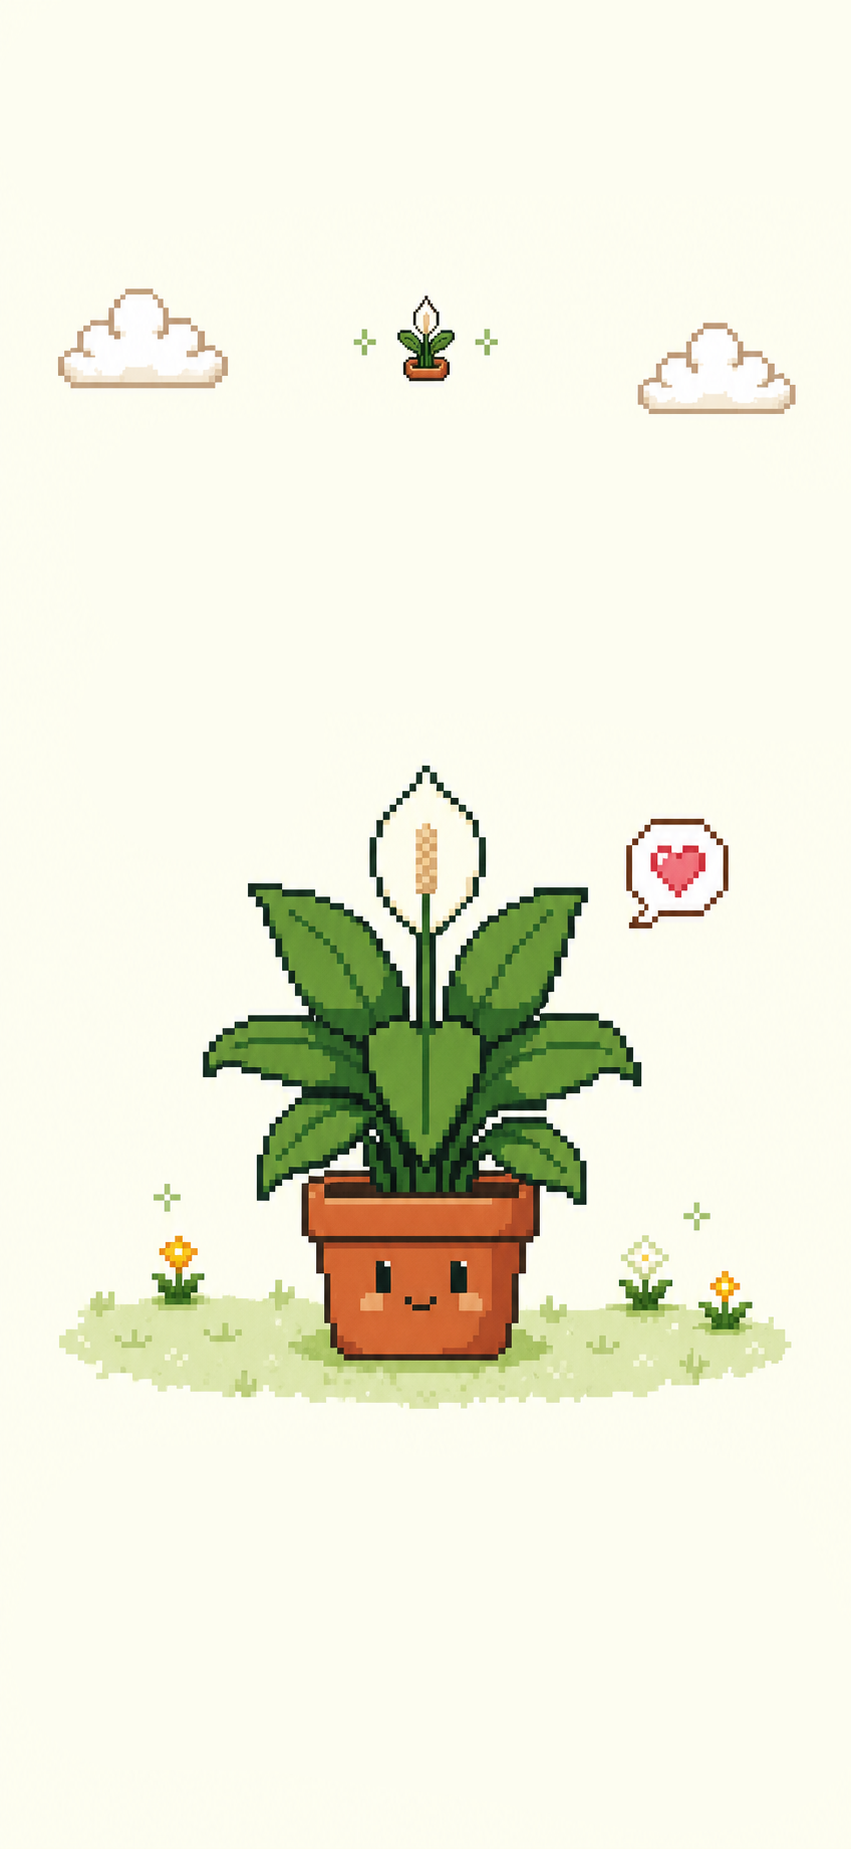
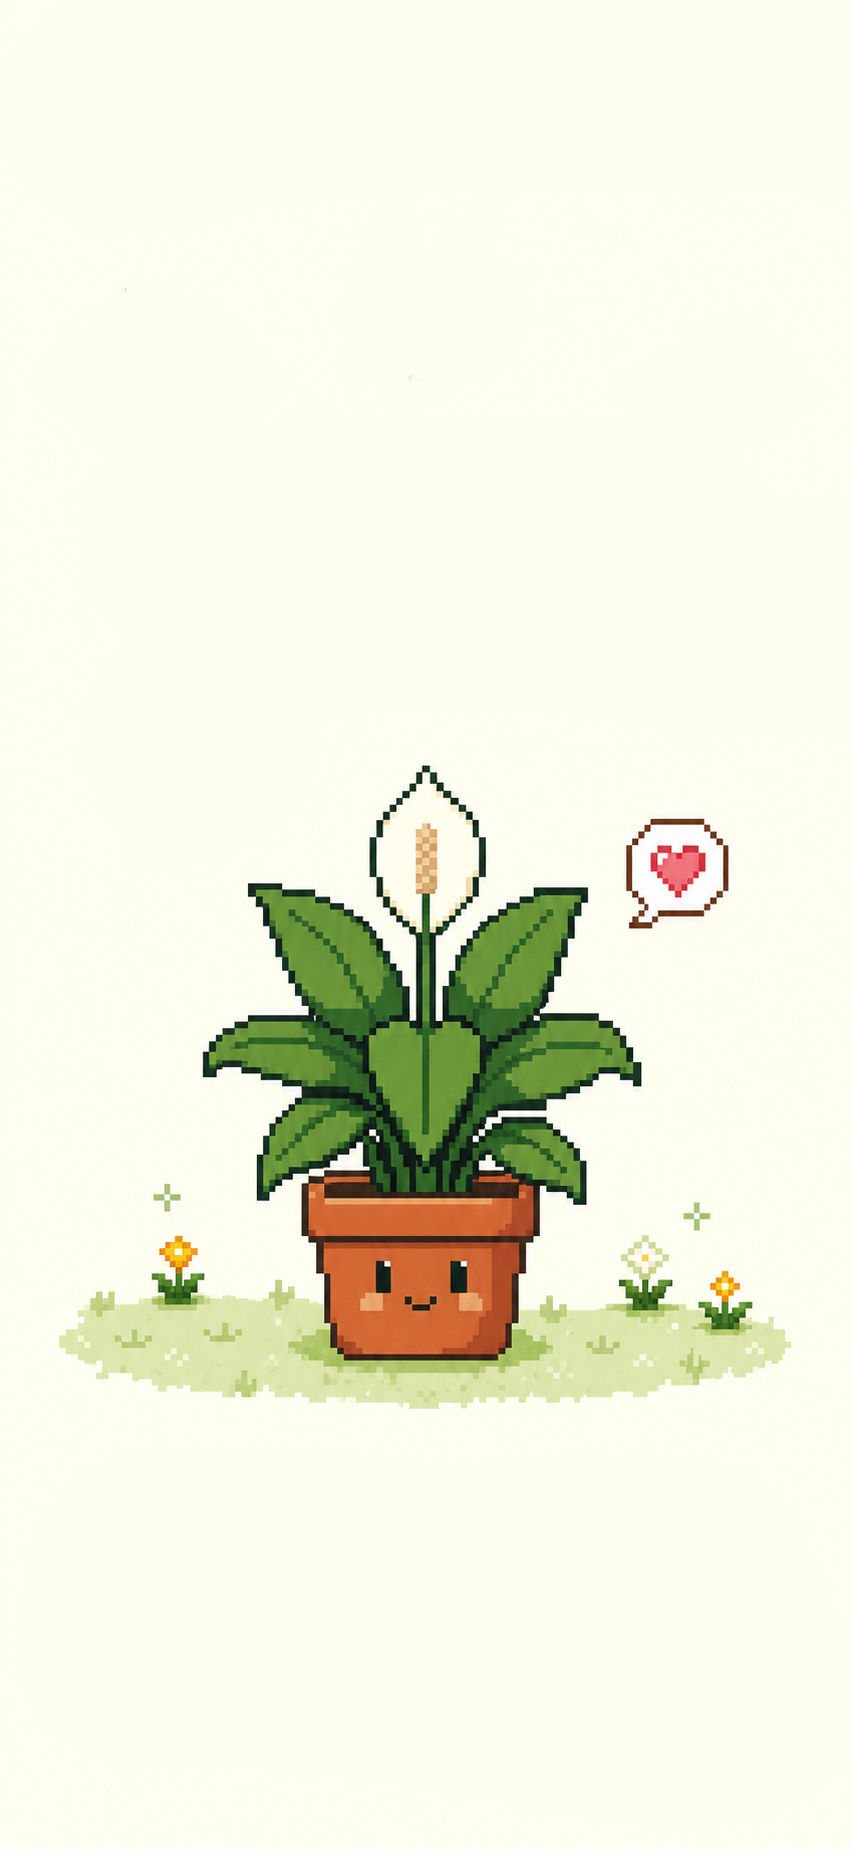
feat: add landing tagline

diff --git a/apps/mobile/App.tsx b/apps/mobile/App.tsx
@@ -57,14 +57,15 @@ const assets = {
 
 // login-bg.png 실측값. 배경이 잘려도 텍스트·버튼이 그림과 어긋나지 않게
 // 세로 비율로 기준선을 잡는다.
-//  titleAnchor  타이틀 위치 — 상단 새싹 아이콘(0.22)과 식물(0.43) 사이
+//  titleAnchor  타이틀 블록(LeafLog+멘트) 시작점 —
+//               상단 새싹 아이콘(0.22)과 식물(0.43) 사이
 //  groundAnchor 잔디 아래끝 — 버튼은 이 아래에 놓인다
 //  actionsMaxTop 버튼이 화면 밖으로 밀리지 않게 하는 상한(화면 높이 비율)
 //  lift         배경·타이틀·버튼을 함께 끌어올리는 양(렌더 높이 비율)
 const LANDING_BG = {
   width: 851,
   height: 1849,
-  titleAnchor: 0.29,
+  titleAnchor: 0.25,
   groundAnchor: 0.762,
   actionsMaxTop: 0.78,
   lift: 0.05,
@@ -488,6 +489,7 @@ function HomeScreen({
     >
       <View style={[styles.landingTitle, { top: titleTop }]}>
         <Text style={styles.brandText}>LeafLog</Text>
+        <Text style={styles.tagline}>매일 쌓이는 초록의 기록</Text>
       </View>
       <View style={[styles.landingActions, { top: actionsTop }]}>
         <AppButton label="로그인" onPress={onLogin} />
@@ -951,6 +953,13 @@ const styles = StyleSheet.create({
     left: Spacing.xl,
     right: Spacing.xl,
     alignItems: "center",
+  },
+  tagline: {
+    marginTop: Spacing.md,
+    color: Colors.textGray,
+    fontFamily: Fonts.neoDunggeunmo,
+    fontSize: FontSizes.subtitle,
+    lineHeight: 24,
   },
   brandText: {
     color: Colors.primary,
